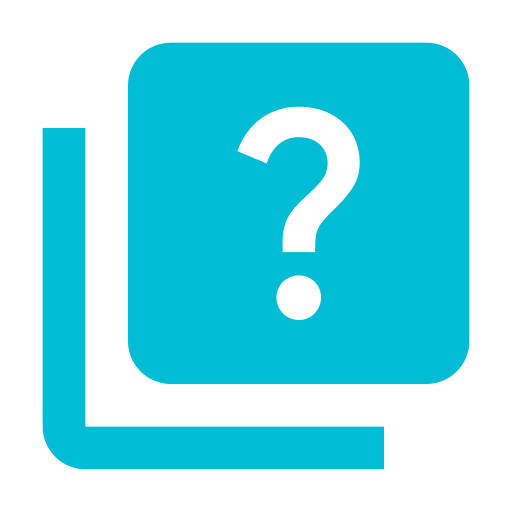
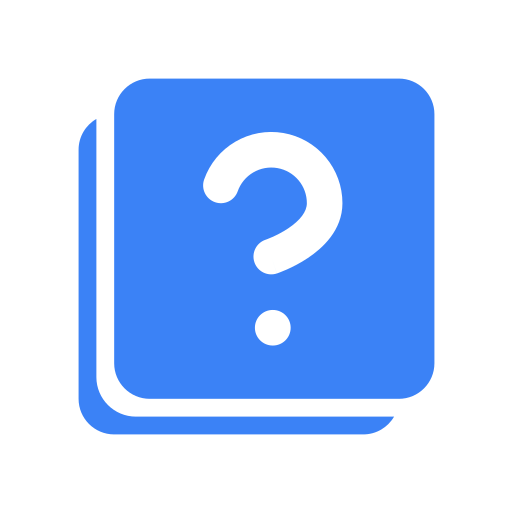
Update seo

diff --git a/index.html b/index.html
@@ -2,13 +2,11 @@
 <html lang="pl">
   <head>
     <meta charset="utf-8" />
-    <link rel="icon" type="image/svg+xml" href="/src/favicon.svg" />
-    <link rel="manifest" href="/manifest.json" />
     <link rel="apple-touch-icon" sizes="180x180" href="/apple-touch-icon.png">
     <link rel="icon" type="image/png" sizes="32x32" href="/favicon-32x32.png">
     <link rel="icon" type="image/png" sizes="16x16" href="/favicon-16x16.png">
     <link rel="manifest" href="/site.webmanifest">
-    <link rel="mask-icon" href="/safari-pinned-tab.svg" color="#00bcd4">
+    <link rel="mask-icon" href="/safari-pinned-tab.svg" color="#3B82F6">
 
     <meta name="viewport" content="width=device-width, initial-scale=1" />
     <meta
